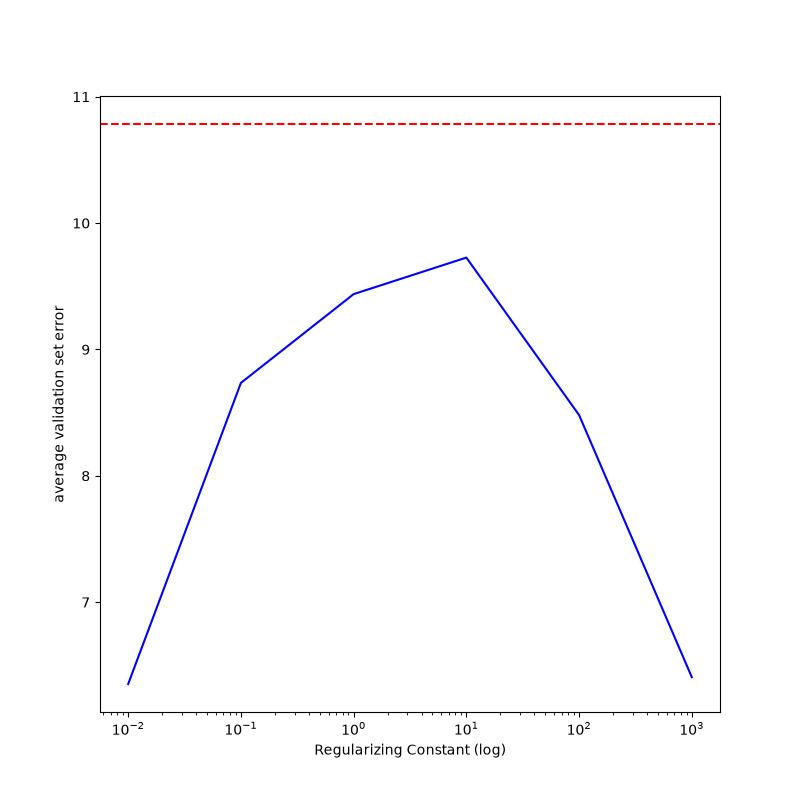
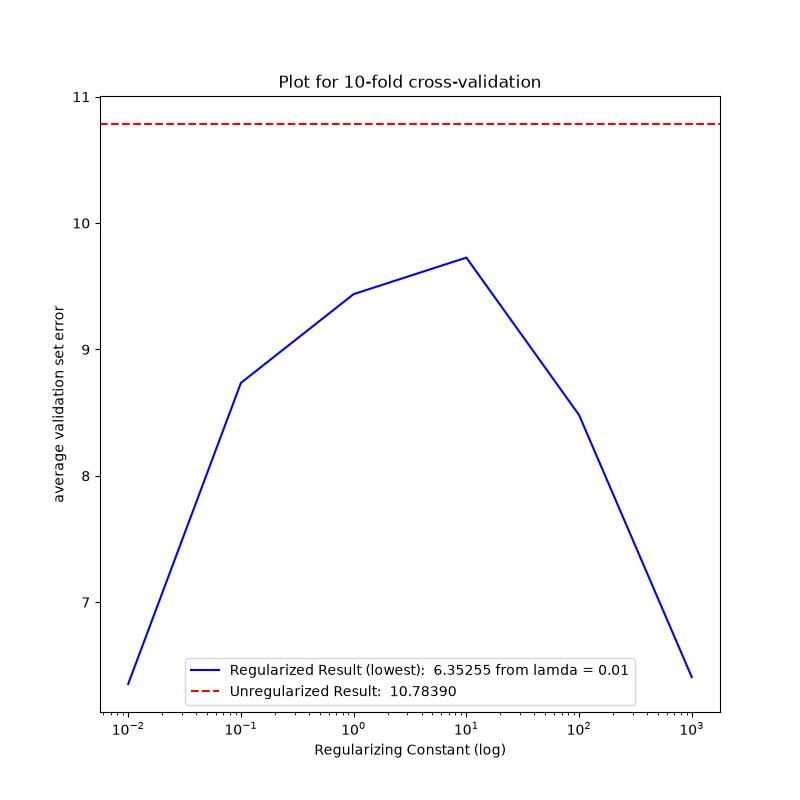
updated 1d plot

Changed region(s): [[0.25, 0.8125, 0.7812, 0.875], [0.3438, 0.0938, 0.6875, 0.125]]

diff --git a/2/P1_soln.py b/2/P1_soln.py
@@ -250,12 +250,15 @@ dataset = pd.read_csv("housing.data", sep=r"\s+", header=None)
 errors = l2_reg(dataset)
 error_unreg = errors[0]
 error_reg = errors[1:]
+min_error = error_reg[0]
 lamda = [0, 0.01, 0.1, 1, 10, 100, 1000]
 lamda_reg = lamda[1:]
-# plt.figure(figsize=(8, 8))
-# plt.semilogx(lamda_reg, error_reg, color='blue', label='Regularized Result')
-# plt.axhline(y=error_unreg, color='red', linestyle='--', label=f'Unregularized Result: {error_unreg: .5f}')
-# plt.xlabel('Regularizing Constant (log)')
-# plt.ylabel('average validation set error')
-# plt.savefig('media/Plot_1d.jpg')
-print(errors)
+plt.figure(figsize=(8, 8))
+plt.semilogx(lamda_reg, error_reg, color='blue', label=f'Regularized Result (lowest): {min_error: .5f} from lamda = 0.01')
+plt.axhline(y=error_unreg, color='red', linestyle='--', label=f'Unregularized Result: {error_unreg: .5f}')
+plt.title('Plot for 10-fold cross-validation')
+plt.xlabel('Regularizing Constant (log)')
+plt.ylabel('average validation set error')
+plt.legend()
+plt.savefig('media/Plot_1d.jpg')
+# print(errors)
